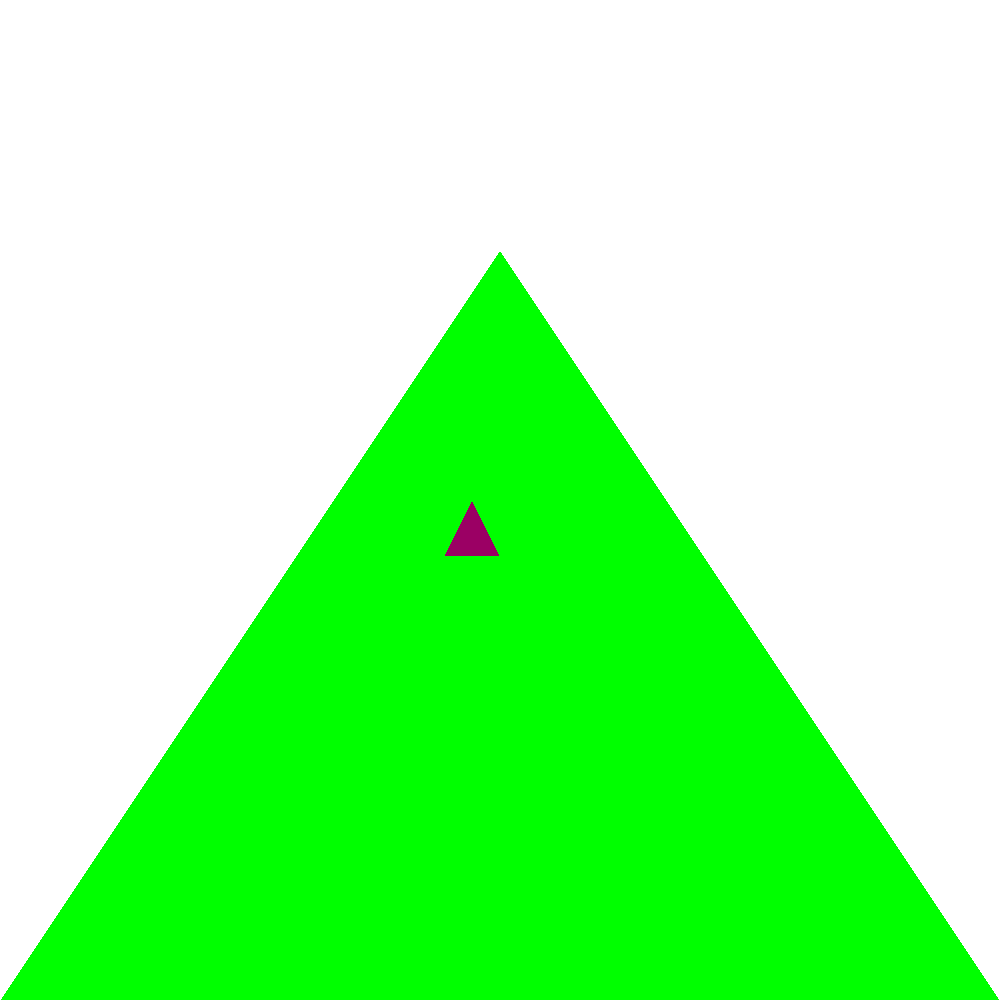
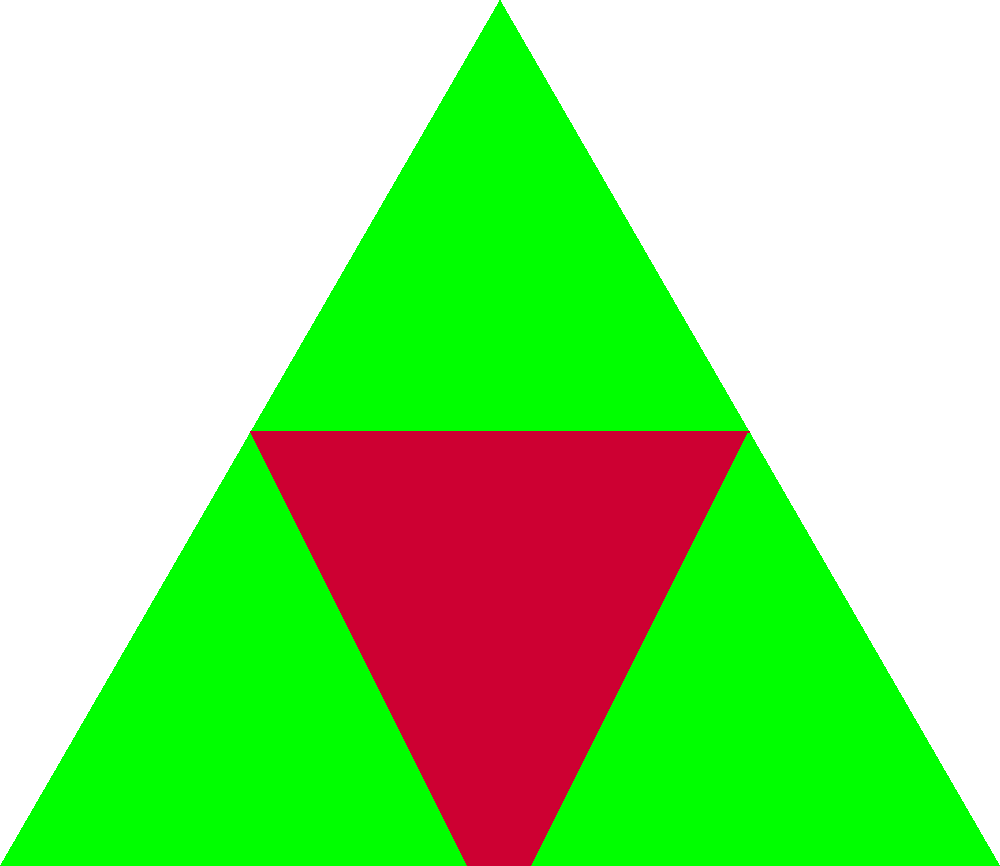
final changes to the triangle generator
triangle generator creates triangles, but I don't think they're equilateral

Changed region(s): [[0.0, 0.0, 0.961, 1.0], [0.961, 0.9353, 1.0, 1.0]]

diff --git a/pillow.py b/pillow.py
@@ -1,6 +1,7 @@
 from PIL import Image as i
 import random as r
 import sys
+import os
 
 testing = False
 progress = True
@@ -18,6 +19,8 @@ class Image:
 			self.width = width
 		self.file_type = file_type
 		self.path = self.name + "." + self.file_type.lower()
+		if os.path.exists(self.path):
+			os.remove(self.path)
 		self.color_type = color_type
 		self.im = i.new(self.color_type, (self.width, self.height))
 		self.save()
@@ -36,7 +39,10 @@ class Image:
 
 	# Places a color at a certain pixel
 	def put(self, coordinate, color=(0, 0, 0)):
-		self.im.putpixel(coordinate, color)
+		try:
+			self.im.putpixel(coordinate, color)
+		except IndexError:
+			pass
 
 	# Fills the image
 	def fill(self, color):
@@ -49,19 +55,27 @@ class Image:
 		self.im.show()
 
 	# Draws an isosceles triangle
-	def triangle(self, start_point, side_length, height, color=(0, 0, 0), testing=True, range_testing=False, up=True, increment=1):
+	def triangle(self, start_point, side_length, height=None, color=(0, 0, 0), testing=True, range_testing=False, up=True, increment=1):
 		x, y = start_point
-		h = 0
-		base = y
+		if up:
+			h = increment
+		else:
+			h = -increment
+		base = y - h
 		rising = True
+		max_height = increment * side_length / 2
+		if height == None or height > max_height:
+			height = max_height
+		if testing:
+			print(f"H: {height}, U: {up}, B: {base}")
 		for a in range(side_length):
-			for b in range(int(h)):
-				if range_testing:
-					print(x+a, int(y-b), end=' ')
-				self.put((x+a, int(y-b)), color)
-			if range_testing:
-				print('')
 			if up:
+				for b in range(int(h)):
+					if range_testing:
+						print(x+a, int(y-b), end=' ')
+					self.put((x+a, int(y-b)), color)
+					if range_testing:
+						print('')
 				if h < height and rising:
 					h += increment
 				if h >= height and rising:
@@ -73,39 +87,19 @@ class Image:
 				if y-h < base and not rising:
 					h -= increment
 			else:
-				pass
-
-		# rising = True
-		# x, y = start_point
-		# h = 0
-		# going = True
-		# base = y
-		# first_time = True
-		# for a in range(side_length):
-		# 	self.put((x, y), color)
-		# 	if up:
-		# 		print(rising, end=' ')
-		# 		if not rising or h != 0:
-		# 			for b in range(int(h)):
-		# 				if range_testing:
-		# 					print(x, y-b, end=' ')
-		# 				self.put((x, y-b), color)
-		# 			if range_testing:
-		# 				print('')
-		# 	else:
-		# 		for b in range(int(h)):
-		# 			self.put((x, y+b), color)
-		# 	if h != 0 or first_time:
-		# 		if rising:
-		# 			h -= increment
-		# 		if h == height:
-		# 			rising = False
-		# 		if not rising:
-		# 			h += increment
-		# 	x += 1
-		# 	first_time = False
-		# 	if testing:
-		# 		print(f"X: {x}, Y: {y}, H: {h}")
+				for nb in range(-int(h)):
+					b = -nb
+					if range_testing:
+						print(x+a, int(y-b), end=' ')
+					self.put((x+a, int(y-b)), color)
+				if h > -height and rising:
+					h -= increment
+				if h <= -height and rising:
+					rising = False
+					if testing:
+						print(rising)
+				if y-h > base and not rising:
+					h += increment
 
 	# Draws a square on the image
 	def square(self, w, h, color=(0, 0, 0)):

diff --git a/main.py b/main.py
@@ -1,28 +1,31 @@
 from pillow import Image
+import math as m
 
-triangle = Image("Triangle", 1000, 1000)
+height = 866
+width = 1000
+triangle = Image("triangle", height, width)
 
-triangle.triangle((100, 500), 100, 50, color=(255, 0, 0))
 triangle.fill((255, 255, 255))
 
-def sierpinski(image, start, side, height, testing=False):
+def sierpinski(image, start, side, testing=False):
 	boo = True
-	x, y = start
+	width, height = start
+	x, y = width, height
+	s = side
 	color = [255, 0, 0]
-	image.triangle((x, y), side, height, color=(0, 255, 0), up=boo, increment=1.5)
-	for i in range(3):
-		x += side//3
-		y -= side // 3
-		side = side // 3
-		height = side//2
+	image.triangle((x, y), side, color=(0, 255, 0), up=boo, increment=m.sqrt(3))
+	for i in range(2):
+		y -= side * m.sqrt(3) / 4
+		x += side / 4
+		s = s // 2
 		color[2] += 50
 		color[0] -= 50
 		if testing:
-			print(x, y, side, height)
+			print(x, y, s)
 		boo = not boo
-		image.triangle((x, y), side, height, color=tuple(color), up=boo, increment=2)
+		image.triangle((int(x), int(y)), s, color=tuple(color), up=boo, increment=2)
 
-sierpinski(triangle, (0, 999), 1000, 750, testing=True)
+sierpinski(triangle, (0, height-1), width, testing=True)
 
 
 triangle.save()
